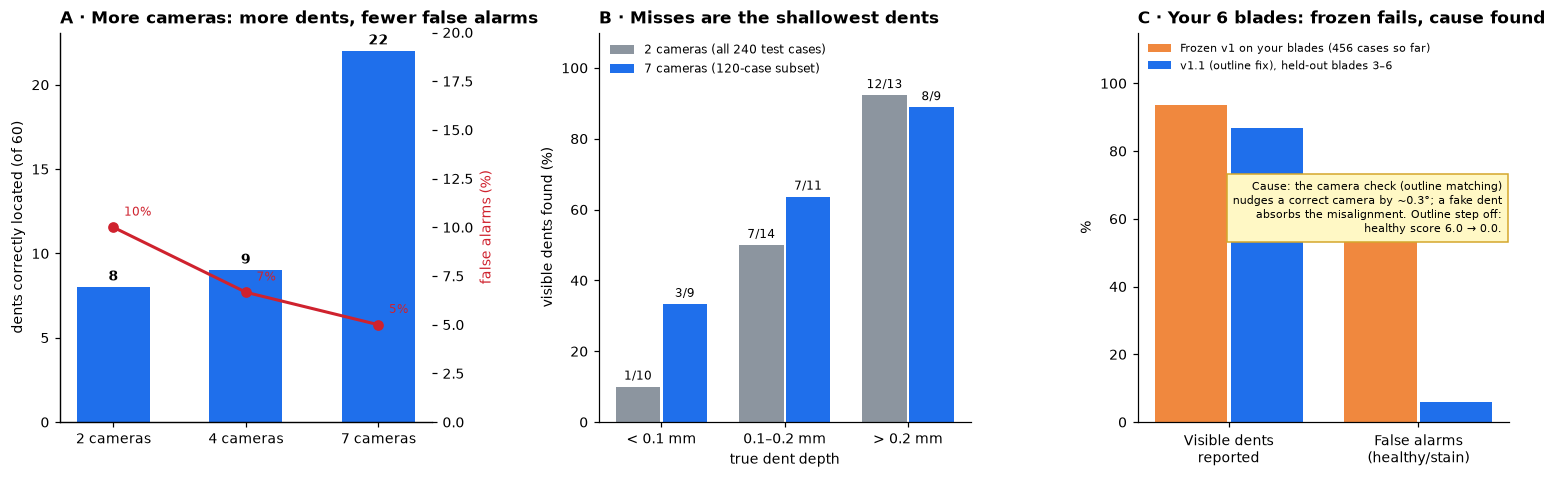
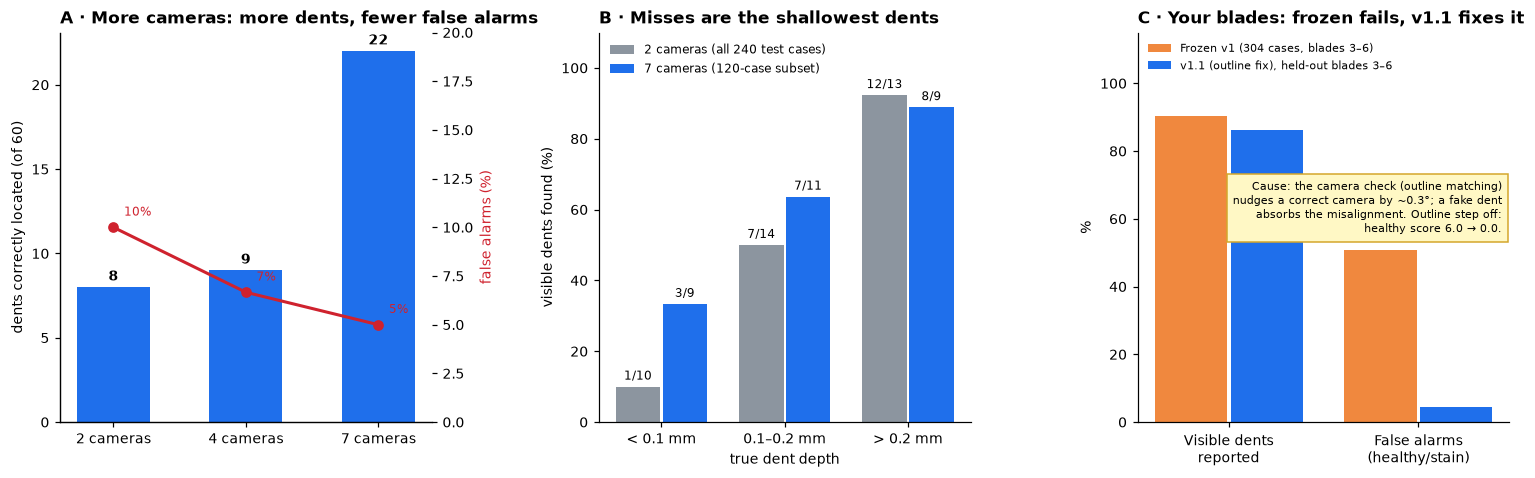
v1.1 held-out CAD6 results and examples

diff --git a/results.html b/results.html
@@ -6,7 +6,7 @@
 <link rel="stylesheet" href="styles.css">
 <style>main.res{max-width:1100px;margin:0 auto;padding:32px 16px 64px;display:grid;gap:18px} main.res small{color:var(--muted)}</style>
 </head><body><main class="res">
-<span class="eyebrow">BladeDelta results · 09 Oct 2026, 05:42 UTC</span>
+<span class="eyebrow">BladeDelta results · 09 Oct 2026, 05:43 UTC</span>
 <h1>Sealed-test results <span class="chip partial">updating automatically</span></h1>
 <p>This page is rebuilt automatically from the experiment outputs. The test set is 240 cases on 30 blade shapes never used
 for development; the method and its threshold were locked before any test image existed. Brackets are 95% intervals,
@@ -38,6 +38,13 @@ blades 1&ndash;2 and will be reported on blades 3&ndash;6, next to the frozen re
 <h3>Smart search vs. a fixed grid (same compute)</h3>
 <figure><img src="img/latest/dev_0016_3.jpg" alt="Smart proposals: found" loading="lazy"><figcaption><b>Smart proposals: found.</b> The method&rsquo;s score-test proposals start the search on the dent, which is located exactly.</figcaption></figure>
 <figure><img src="img/latest/dev_0016_3_ours_abl_grid.jpg" alt="Fixed grid of starts: missed" loading="lazy"><figcaption><b>Fixed grid of starts: missed.</b> Starting from a fixed grid, the fit never reaches the dent, even though the difference map (right) shows it clearly.</figcaption></figure>
+<h3>v1.1 on your held-out blades 3&ndash;6 (never used to develop it): same case, frozen v1 then v1.1</h3>
+<figure><img src="img/latest/cad6_1003_73.jpg" alt="Blade 3, healthy, camera moved &mdash; frozen v1: false alarm" loading="lazy"><figcaption><b>Blade 3, healthy, camera moved &mdash; frozen v1: false alarm.</b> Nothing changed on the blade, but v1 reports a dent near the root.</figcaption></figure>
+<figure><img src="img/latest/cad6_1003_73_v11.jpg" alt="Same case &mdash; v1.1: correctly silent" loading="lazy"><figcaption><b>Same case &mdash; v1.1: correctly silent.</b> With the camera-check and brightness-correction fixes, nothing is reported.</figcaption></figure>
+<figure><img src="img/latest/cad6_1004_49.jpg" alt="Blade 4, stain only &mdash; frozen v1: false alarm" loading="lazy"><figcaption><b>Blade 4, stain only &mdash; frozen v1: false alarm.</b> A colour change near the root is reported as a large dent.</figcaption></figure>
+<figure><img src="img/latest/cad6_1004_49_v11.jpg" alt="Same case &mdash; v1.1: correctly silent" loading="lazy"><figcaption><b>Same case &mdash; v1.1: correctly silent.</b> The stain is explained as a colour change; no shape change is reported.</figcaption></figure>
+<figure><img src="img/latest/cad6_1006_15.jpg" alt="Blade 6, real dent &mdash; frozen v1: wrong place" loading="lazy"><figcaption><b>Blade 6, real dent &mdash; frozen v1: wrong place.</b> v1 reports a dent at the root, far from the real one (orange, mid-blade).</figcaption></figure>
+<figure><img src="img/latest/cad6_1006_15_v11.jpg" alt="Same case &mdash; v1.1: found exactly" loading="lazy"><figcaption><b>Same case &mdash; v1.1: found exactly.</b> v1.1 places the dent on the true location.</figcaption></figure>
 <h3>Your blades where the frozen method works (blades 5 and 6)</h3>
 <figure><img src="img/latest/cad6_1005_00.jpg" alt="Blade 5: dent found" loading="lazy"><figcaption><b>Blade 5: dent found.</b> A real dent, found and located.</figcaption></figure>
 <figure><img src="img/latest/cad6_1005_70.jpg" alt="Blade 5: camera moved, healthy: correctly silent" loading="lazy"><figcaption><b>Blade 5: camera moved, healthy: correctly silent.</b> The camera moved 1&deg; and nothing changed on the blade; no dent is reported.</figcaption></figure>

diff --git a/index.html b/index.html
@@ -58,7 +58,7 @@
       <span class="eyebrow">Latest updates · 7 October 2026, afternoon</span>
       <h2 id="h-latest">Latest results, in pictures</h2>
       <p><b>Final sealed-test numbers and every method side by side: <a href="results.html">live results page</a></b> (rebuilt automatically as experiments finish).</p>
-      <!--AUTO-STATUS-START--><div class="note"><strong>Automatic status · 09 Oct 2026, 05:42 UTC</strong><p>6 of 14 phases done. Sealed test: separation 0.82, 54% of visible dents found, 10% false alarms. <a href="results.html">Full results and charts →</a></p></div><!--AUTO-STATUS-END-->
+      <!--AUTO-STATUS-START--><div class="note"><strong>Automatic status · 09 Oct 2026, 05:43 UTC</strong><p>6 of 14 phases done. Sealed test: separation 0.82, 54% of visible dents found, 10% false alarms. <a href="results.html">Full results and charts →</a></p></div><!--AUTO-STATUS-END-->
       <div class="stats">
         <div class="stat"><span class="big">213 / 240</span><span class="lbl">sealed-test cases done (27 never-seen blades); numbers below are preliminary</span></div>
         <div class="stat"><span class="big">0.81</span><span class="lbl">separation of visible dents from healthy/stained blades (was 0.89 at 80 cases)</span></div>
